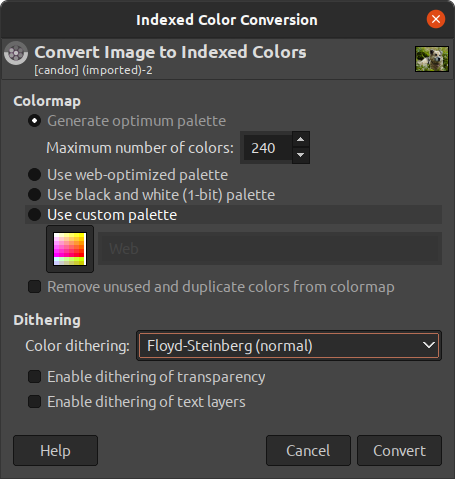
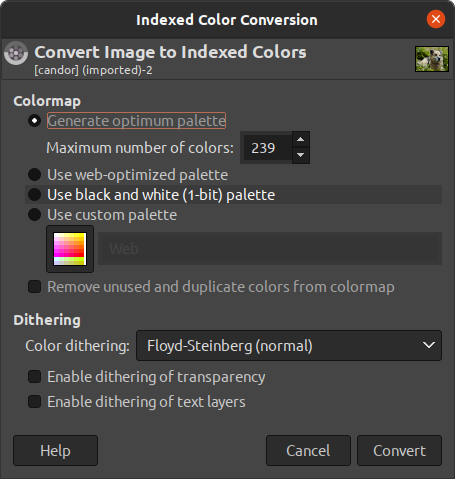
more documentation

Changed region(s): [[0.0923, 0.38, 0.6154, 0.4676], [0.5538, 0.2923, 0.6154, 0.3215], [0.0923, 0.2338, 0.1231, 0.263]]

diff --git a/docs/README.md b/docs/README.md
@@ -1,3 +1,5 @@
+# FCIO Tutorial
+
 ## Preface: What is FCIO?
 
 *fcio* is a lightweight C library providing full colour mode support for C developers on the MEGA65:
@@ -125,7 +127,7 @@ Before continuing with this tutorial, install `png2fci` somewhere in your `$PATH
 
 ### 3.1 Provide an indexed PNG with suitable dimensions
 
-Since the VIC-IV is a palette based chip, we need a source image that is indexed. Furthermore, if we want to keep the 15 system colours – which we do for the time being –, we need a indexed source picture using less than 240 colours.
+Since the VIC-IV is a palette based chip, we need a source image that is indexed. If we want to keep things simple, we need a picture using a maximum of 239 colours (the VIC-IV uses colour index 255 for a special purpose, and while it's perfectly possible to overwrite the system palette of colours 0-15, we don't want to do so just yet. This leaves 239 usable palette entries).
 
 Fortunately, there's a wide range of software which allows us to convert about any image into the desired shape. In this tutorial, we'll use GIMP, but of course any commercial software or subscription rip-off will do just as nicely.
 
@@ -164,8 +166,69 @@ Without any options, `png2fci` simply converts the PNG into an FCI. We are using
 reading candor.png
 infile size is  256 x 192 pixels
 reserving system colour space
-outfile has 256 palette entries
+outfile has 255 palette entries
 using 24 rows, 32 columns.
 building outfile
 done.
 ```
+## 4. Displaying bitmap images
+
+Now it's time to expand our little program from section #2 to load and display our newly created FCI image:
+
+```
+#include <fcio.h>
+#include <conio.h>
+
+void main() {
+   byte i;
+   long t;
+   fc_init(1,1,0,60,0);
+   bordercolor(6);
+   fc_clrscr();
+   for (i=0;i<60;++i) {
+      fc_textcolor(1+(i%14));
+      fc_gotoxy(i+3,i);
+      fc_printf("Hello world #%d",i);
+   }
+   fc_displayFCIFile("candor.fci",25,16);
+   while(1);
+}
+```
+
+Notice the single line that's been added? `fc_displayFCIFile()` is really all we need to display an FCI file on the screen. Noice.
+
+You can now compile the program again using the same command as before.
+
+```
+cl65 -Imega65-libc/cc65/include -o test test.c mega65-libc/cc65/src/fcio.c mega65-libc/cc65/src/memory.c
+```
+
+But don't fire up your MEGA65 (or emulator) yet, because obviously this won't work just yet. We first need to provide the MEGA65 with a disc image to load the FCI file from. 
+
+### 4.1 Building a disc image
+
+The easiest way to do so is to use the `c1541` tool, which is part of the VICE emulator suite. 
+
+To create a .d81 image (currently the only type of image the MEGA65 can handle), type:
+
+```
+c1541 -format fcdemo,sk d81 fcioDemo.d81
+```
+
+This will create an empty `fcioDemo.d81` disc image in your current directory. Assuming this is the same directory your demo program and FCI file are living in, you can now copy the necessary files to the image via:
+
+```
+c1541 fcioDemo.d81 -write test
+```
+
+and
+
+```
+c1541 fcioDemo.d81 -write candor.fci
+```
+
+So, finally we have a disc image with both the binary and the picture file to load. Mount it on your MEGA65, change to C64 mode (we have to start CC65 binaries from C64 mode) and load it with `LOAD "TEST"`. *Et voilà:*
+
+<img src="tut2.png" width="400"/><br/>
+
+You have just configured a MEGA65 FCM screen and displayed some text and a pretty picture on it... with just 16 lines of code!
